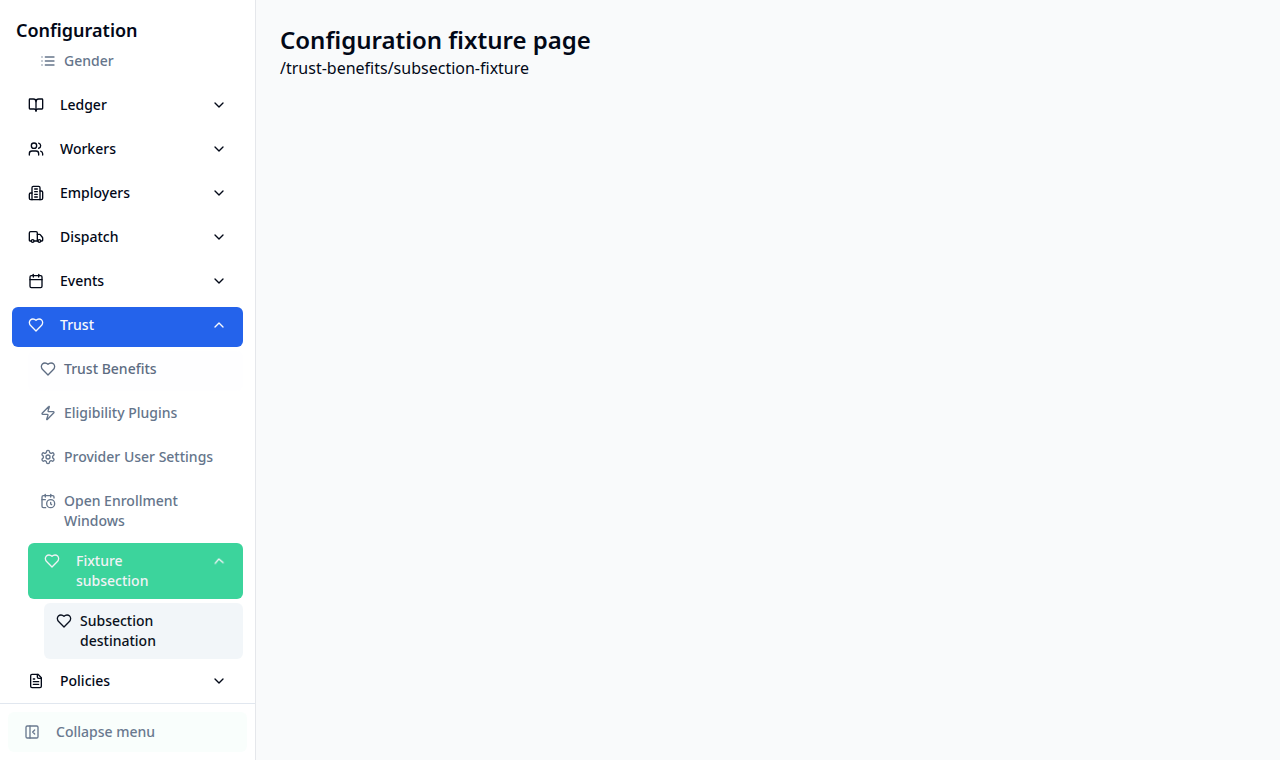
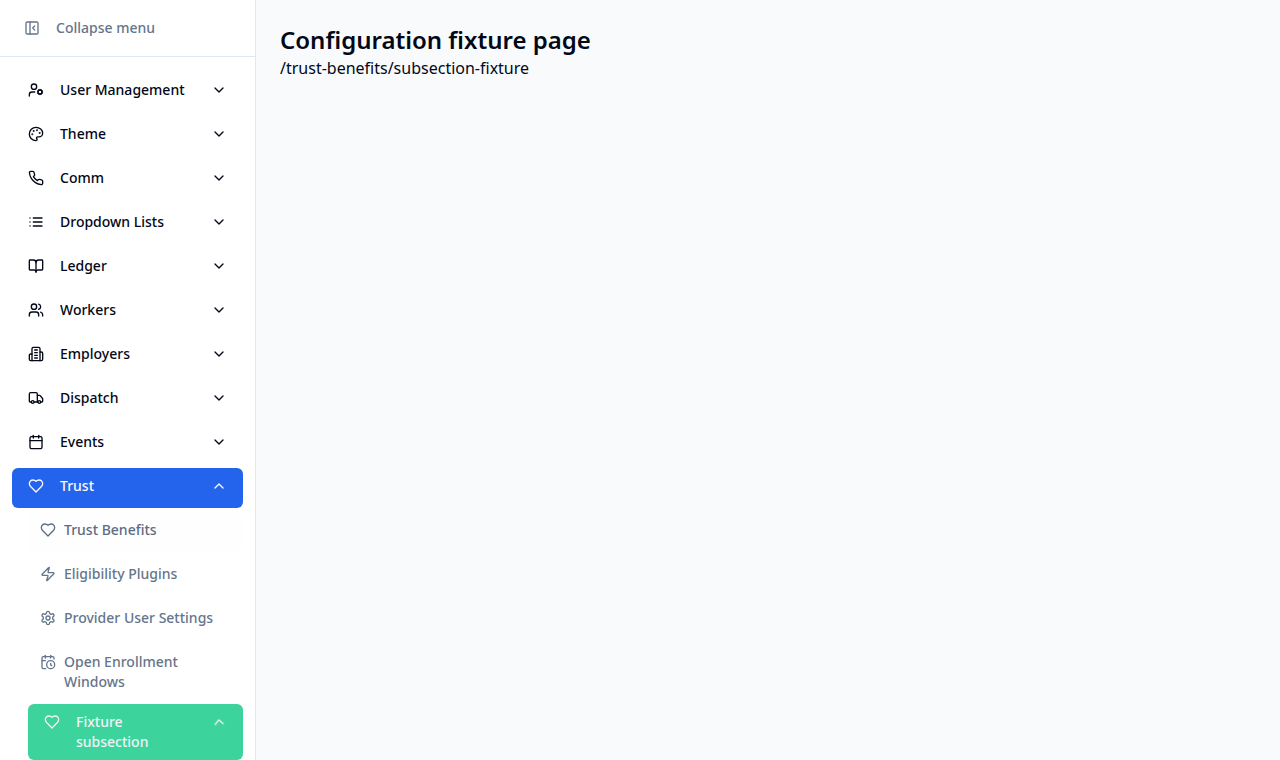
Move configuration sidebar controls to top and keep sections exclusive
Replit-Task-Id: 4a6a462e-cfb1-4f29-afec-10dd1445ac7b
Replit-Merge-Attempt: MergeTask:4a6a462e-cfb1-4f29-afec-10dd1445ac7b:1:ad6ddfd3

Changed region(s): [[0.0, 0.0303, 0.1875, 1.0]]

diff --git a/client/src/components/layouts/ConfigurationLayout.tsx b/client/src/components/layouts/ConfigurationLayout.tsx
@@ -53,6 +53,7 @@ function ConfigurationLayoutContents({ children }: ConfigurationLayoutProps) {
   );
   const { sections } = useConfigNavigation();
   const { sections: accessibleSections } = useAccessibleConfigSections();
+  const topLevelSectionIds = useMemo(() => accessibleSections.map(section => section.id), [accessibleSections]);
   const activeItemPath = useMemo(() => findActiveItemPath(location, sections), [location, sections]);
   const activeSectionIds = useMemo(() => {
     const ids: string[] = [];
@@ -81,11 +82,11 @@ function ConfigurationLayoutContents({ children }: ConfigurationLayoutProps) {
 
   useEffect(() => {
     setSectionState(previous =>
-      reconcileConfigurationSectionNavigation(previous, location, activeSectionIds),
+      reconcileConfigurationSectionNavigation(previous, location, activeSectionIds, topLevelSectionIds),
     );
     setMobileMenuOpen(false);
     setOpenFlyoutId(null);
-  }, [location, activeSectionIds]);
+  }, [location, activeSectionIds, topLevelSectionIds]);
 
   useEffect(() => {
     saveConfigurationMenuOpen(desktopMenuOpen);
@@ -93,7 +94,7 @@ function ConfigurationLayoutContents({ children }: ConfigurationLayoutProps) {
   }, [desktopMenuOpen]);
 
   const toggleSection = (sectionId: string) => {
-    setSectionState(previous => toggleConfigurationSection(previous, sectionId));
+    setSectionState(previous => toggleConfigurationSection(previous, sectionId, topLevelSectionIds));
   };
   const isSectionOpen = (section: NavSection) => !!sectionState.openSections[section.id];
   const isSectionActive = (section: NavSection) => isPathInSection(activeItemPath, section);
@@ -260,18 +261,7 @@ function ConfigurationLayoutContents({ children }: ConfigurationLayoutProps) {
         >
           {isDesktop && !desktopMenuOpen ? (
             <div className="flex h-full min-h-0 flex-col items-center gap-2 py-3">
-              <Tooltip>
-                <TooltipTrigger asChild>
-                  <Link href="/config" onClick={closeNavigation} aria-label="Configuration home" aria-current={location === "/config" ? "page" : undefined} className={cn("flex h-10 w-10 shrink-0 items-center justify-center rounded-md text-muted-foreground hover:bg-muted hover:text-foreground", location === "/config" && "bg-muted text-foreground")}>
-                    <Menu className="h-4 w-4" />
-                  </Link>
-                </TooltipTrigger>
-                <TooltipContent side="right">Configuration home</TooltipContent>
-              </Tooltip>
-              <nav data-testid="configuration-nav-scroll" className="flex min-h-0 w-full flex-1 flex-col items-center gap-1 overflow-y-auto [&>button]:shrink-0" aria-label="Configuration sections">
-                {accessibleSections.map(renderRailSection)}
-              </nav>
-              <div className="mt-auto shrink-0 border-t pt-2">
+              <div className="shrink-0 border-b pb-2">
                 <Tooltip>
                   <TooltipTrigger asChild>
                     <Button type="button" variant="ghost" size="icon" aria-label="Expand configuration menu" aria-controls="configuration-menu" aria-expanded={false} onClick={() => setDesktopMenuOpen(true)} data-testid="button-configuration-menu-desktop">
@@ -281,22 +271,24 @@ function ConfigurationLayoutContents({ children }: ConfigurationLayoutProps) {
                   <TooltipContent side="right">Expand menu</TooltipContent>
                 </Tooltip>
               </div>
+              <nav data-testid="configuration-nav-scroll" className="flex min-h-0 w-full flex-1 flex-col items-center gap-1 overflow-y-auto [&>button]:shrink-0" aria-label="Configuration sections">
+                {accessibleSections.map(renderRailSection)}
+              </nav>
             </div>
           ) : (
             <>
-              <div className="flex items-center gap-2 px-4 pb-3 pt-4">
-                <Link href="/config" onClick={closeNavigation} className="min-w-0 flex-1 text-lg font-semibold text-foreground hover:text-primary">Configuration</Link>
+              <div className="flex shrink-0 justify-end px-3 pb-2 pt-3 md:hidden">
                 <Button type="button" variant="ghost" size="icon" className="md:hidden" aria-label="Close configuration menu" aria-controls="configuration-menu" aria-expanded={mobileMenuOpen} onClick={() => setMobileMenuOpen(false)}><X className="h-5 w-5" /></Button>
               </div>
-              <nav id="configuration-nav-scroll" data-testid="configuration-nav-scroll" className="min-h-0 flex-1 space-y-1 overflow-y-auto px-3 pb-4" aria-label="Configuration sections">
-                {accessibleSections.map(renderSection)}
-              </nav>
-              <div className="hidden shrink-0 border-t p-2 md:block">
+              <div className="hidden shrink-0 border-b p-2 md:block">
                 <Button type="button" variant="ghost" className="w-full justify-start text-muted-foreground" aria-label="Collapse configuration menu" aria-controls="configuration-menu" aria-expanded onClick={() => setDesktopMenuOpen(false)} data-testid="button-configuration-menu-desktop">
                   <PanelLeftClose className="mr-2 h-4 w-4" />
                   <span>Collapse menu</span>
                 </Button>
               </div>
+              <nav id="configuration-nav-scroll" data-testid="configuration-nav-scroll" className="min-h-0 flex-1 space-y-1 overflow-y-auto px-3 pb-4" aria-label="Configuration sections">
+                {accessibleSections.map(renderSection)}
+              </nav>
             </>
           )}
         </aside>

diff --git a/tests/config/configuration-sidebar-state.test.ts b/tests/config/configuration-sidebar-state.test.ts
@@ -13,31 +13,43 @@ describe("configuration sidebar section state", () => {
     const initial = createConfigurationSectionOpenState("/config/a", ["system", "nested"]);
     expect(initial.openSections).toEqual({ system: true, nested: true });
 
-    const collapsed = toggleConfigurationSection(initial, "system");
+    const collapsed = toggleConfigurationSection(initial, "system", ["system", "theme"]);
     expect(collapsed.openSections.system).toBe(false);
 
     expect(
-      reconcileConfigurationSectionNavigation(collapsed, "/config/a", ["system", "nested"]),
+      reconcileConfigurationSectionNavigation(collapsed, "/config/a", ["system", "nested"], ["system", "theme"]),
     ).toBe(collapsed);
   });
 
-  it("opens ancestors for a new path without resetting other user choices", () => {
+  it("opens only one top-level section while preserving nested choices", () => {
     let state = createConfigurationSectionOpenState("/config/a", ["system"]);
-    state = toggleConfigurationSection(state, "system");
-    state = toggleConfigurationSection(state, "theme");
+    state = toggleConfigurationSection(state, "nested", ["system", "theme", "workers"]);
+    state = toggleConfigurationSection(state, "theme", ["system", "theme", "workers"]);
+    expect(state.openSections).toEqual({ system: false, nested: true, theme: true, workers: false });
+    state = toggleConfigurationSection(state, "system", ["system", "theme", "workers"]);
+    expect(state.openSections).toEqual({ system: true, nested: true, theme: false, workers: false });
 
     const navigated = reconcileConfigurationSectionNavigation(
       state,
       "/config/workers/settings",
       ["workers", "worker-details"],
+      ["system", "theme", "workers"],
     );
 
     expect(navigated.openSections).toEqual({
       system: false,
-      theme: true,
+      theme: false,
+      nested: true,
       workers: true,
       "worker-details": true,
     });
+  });
+
+  it("lets the open section close without opening a replacement", () => {
+    const initial = createConfigurationSectionOpenState("/config/ledger", ["ledger"]);
+    const closed = toggleConfigurationSection(initial, "ledger", ["ledger", "dropdown-lists"]);
+    expect(closed.openSections.ledger).toBe(false);
+    expect(closed.openSections["dropdown-lists"]).toBeUndefined();
   });
 
   it("opens an active ancestor that arrives after dynamic navigation resolves", () => {
@@ -46,6 +58,7 @@ describe("configuration sidebar section state", () => {
       loading,
       "/config/options/gender/list",
       ["dropdown-lists"],
+      ["system", "dropdown-lists"],
     );
     expect(ready.openSections["dropdown-lists"]).toBe(true);
   });

diff --git a/client/src/components/layouts/configuration-sidebar-state.ts b/client/src/components/layouts/configuration-sidebar-state.ts
@@ -64,6 +64,7 @@ export function reconcileConfigurationSectionNavigation(
   state: ConfigurationSectionOpenState,
   location: string,
   activeSectionIds: readonly string[],
+  topLevelSectionIds: readonly string[],
 ): ConfigurationSectionOpenState {
   const nextActiveIds = activeIdsKey(activeSectionIds);
   if (state.location === location && state.activeSectionIds === nextActiveIds) {
@@ -71,6 +72,12 @@ export function reconcileConfigurationSectionNavigation(
   }
 
   const openSections = { ...state.openSections };
+  const activeTopLevelId = activeSectionIds.find(id => topLevelSectionIds.includes(id));
+  if (activeTopLevelId) {
+    for (const id of topLevelSectionIds) {
+      if (id !== activeTopLevelId) openSections[id] = false;
+    }
+  }
   for (const sectionId of activeSectionIds) openSections[sectionId] = true;
 
   return {
@@ -83,12 +90,17 @@ export function reconcileConfigurationSectionNavigation(
 export function toggleConfigurationSection(
   state: ConfigurationSectionOpenState,
   sectionId: string,
+  topLevelSectionIds: readonly string[],
 ): ConfigurationSectionOpenState {
+  const openSections = { ...state.openSections };
+  if (topLevelSectionIds.includes(sectionId) && !openSections[sectionId]) {
+    for (const id of topLevelSectionIds) {
+      if (id !== sectionId) openSections[id] = false;
+    }
+  }
+  openSections[sectionId] = !openSections[sectionId];
   return {
     ...state,
-    openSections: {
-      ...state.openSections,
-      [sectionId]: !state.openSections[sectionId],
-    },
+    openSections,
   };
 }
